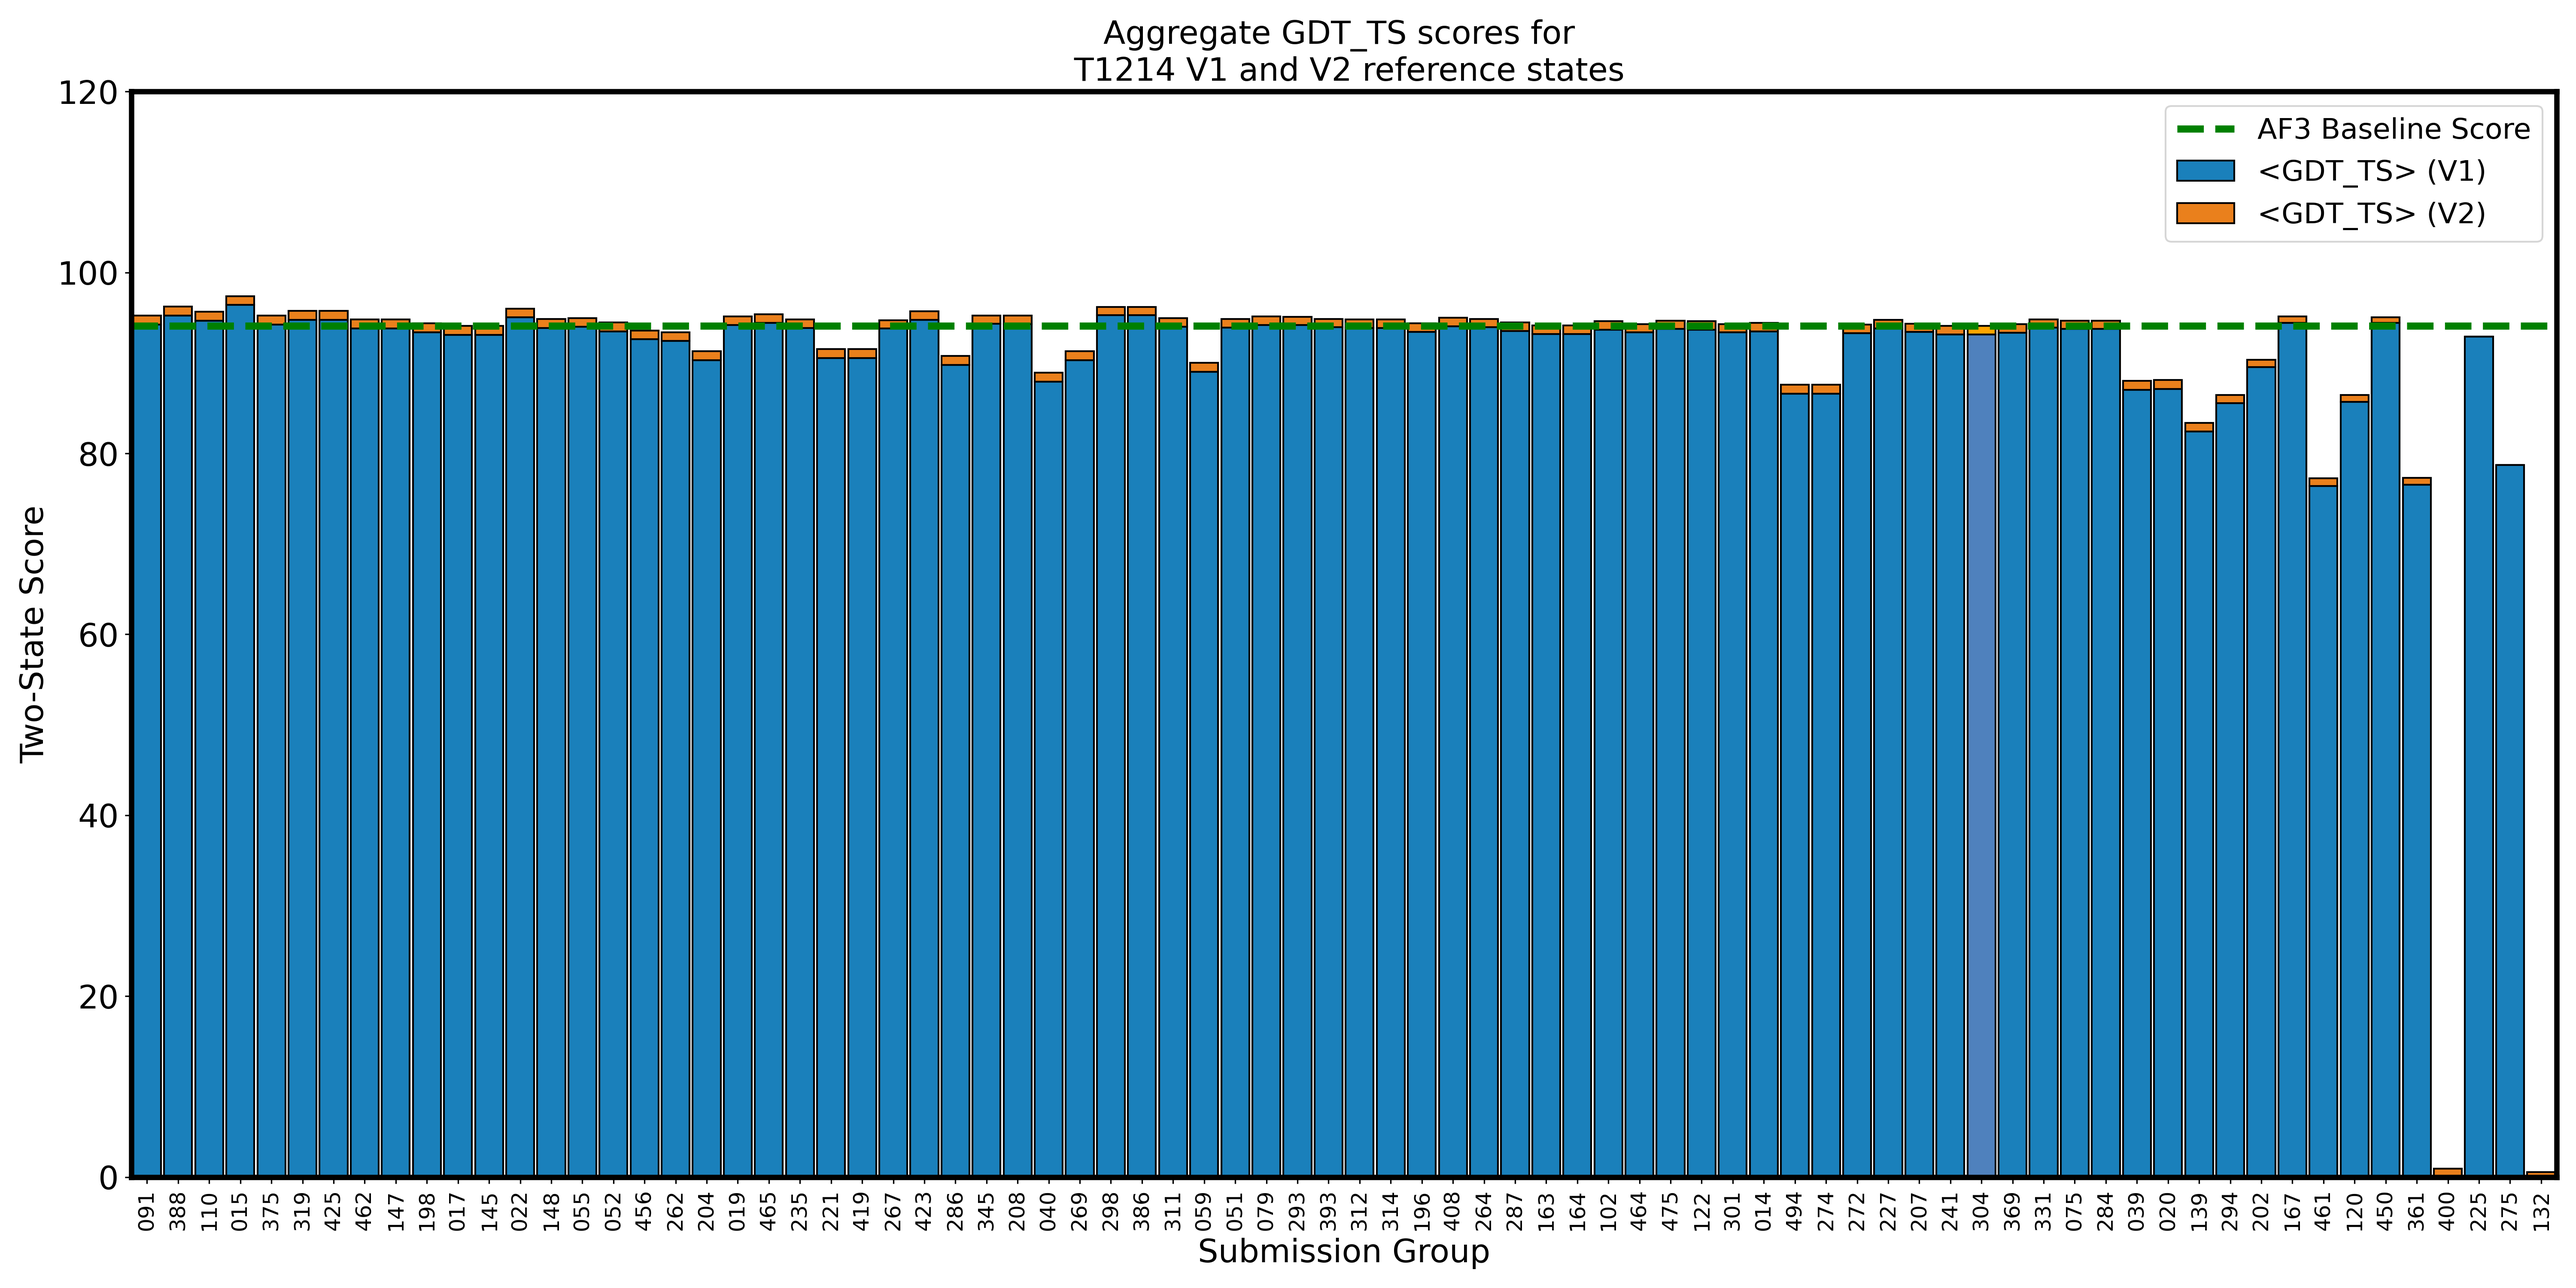
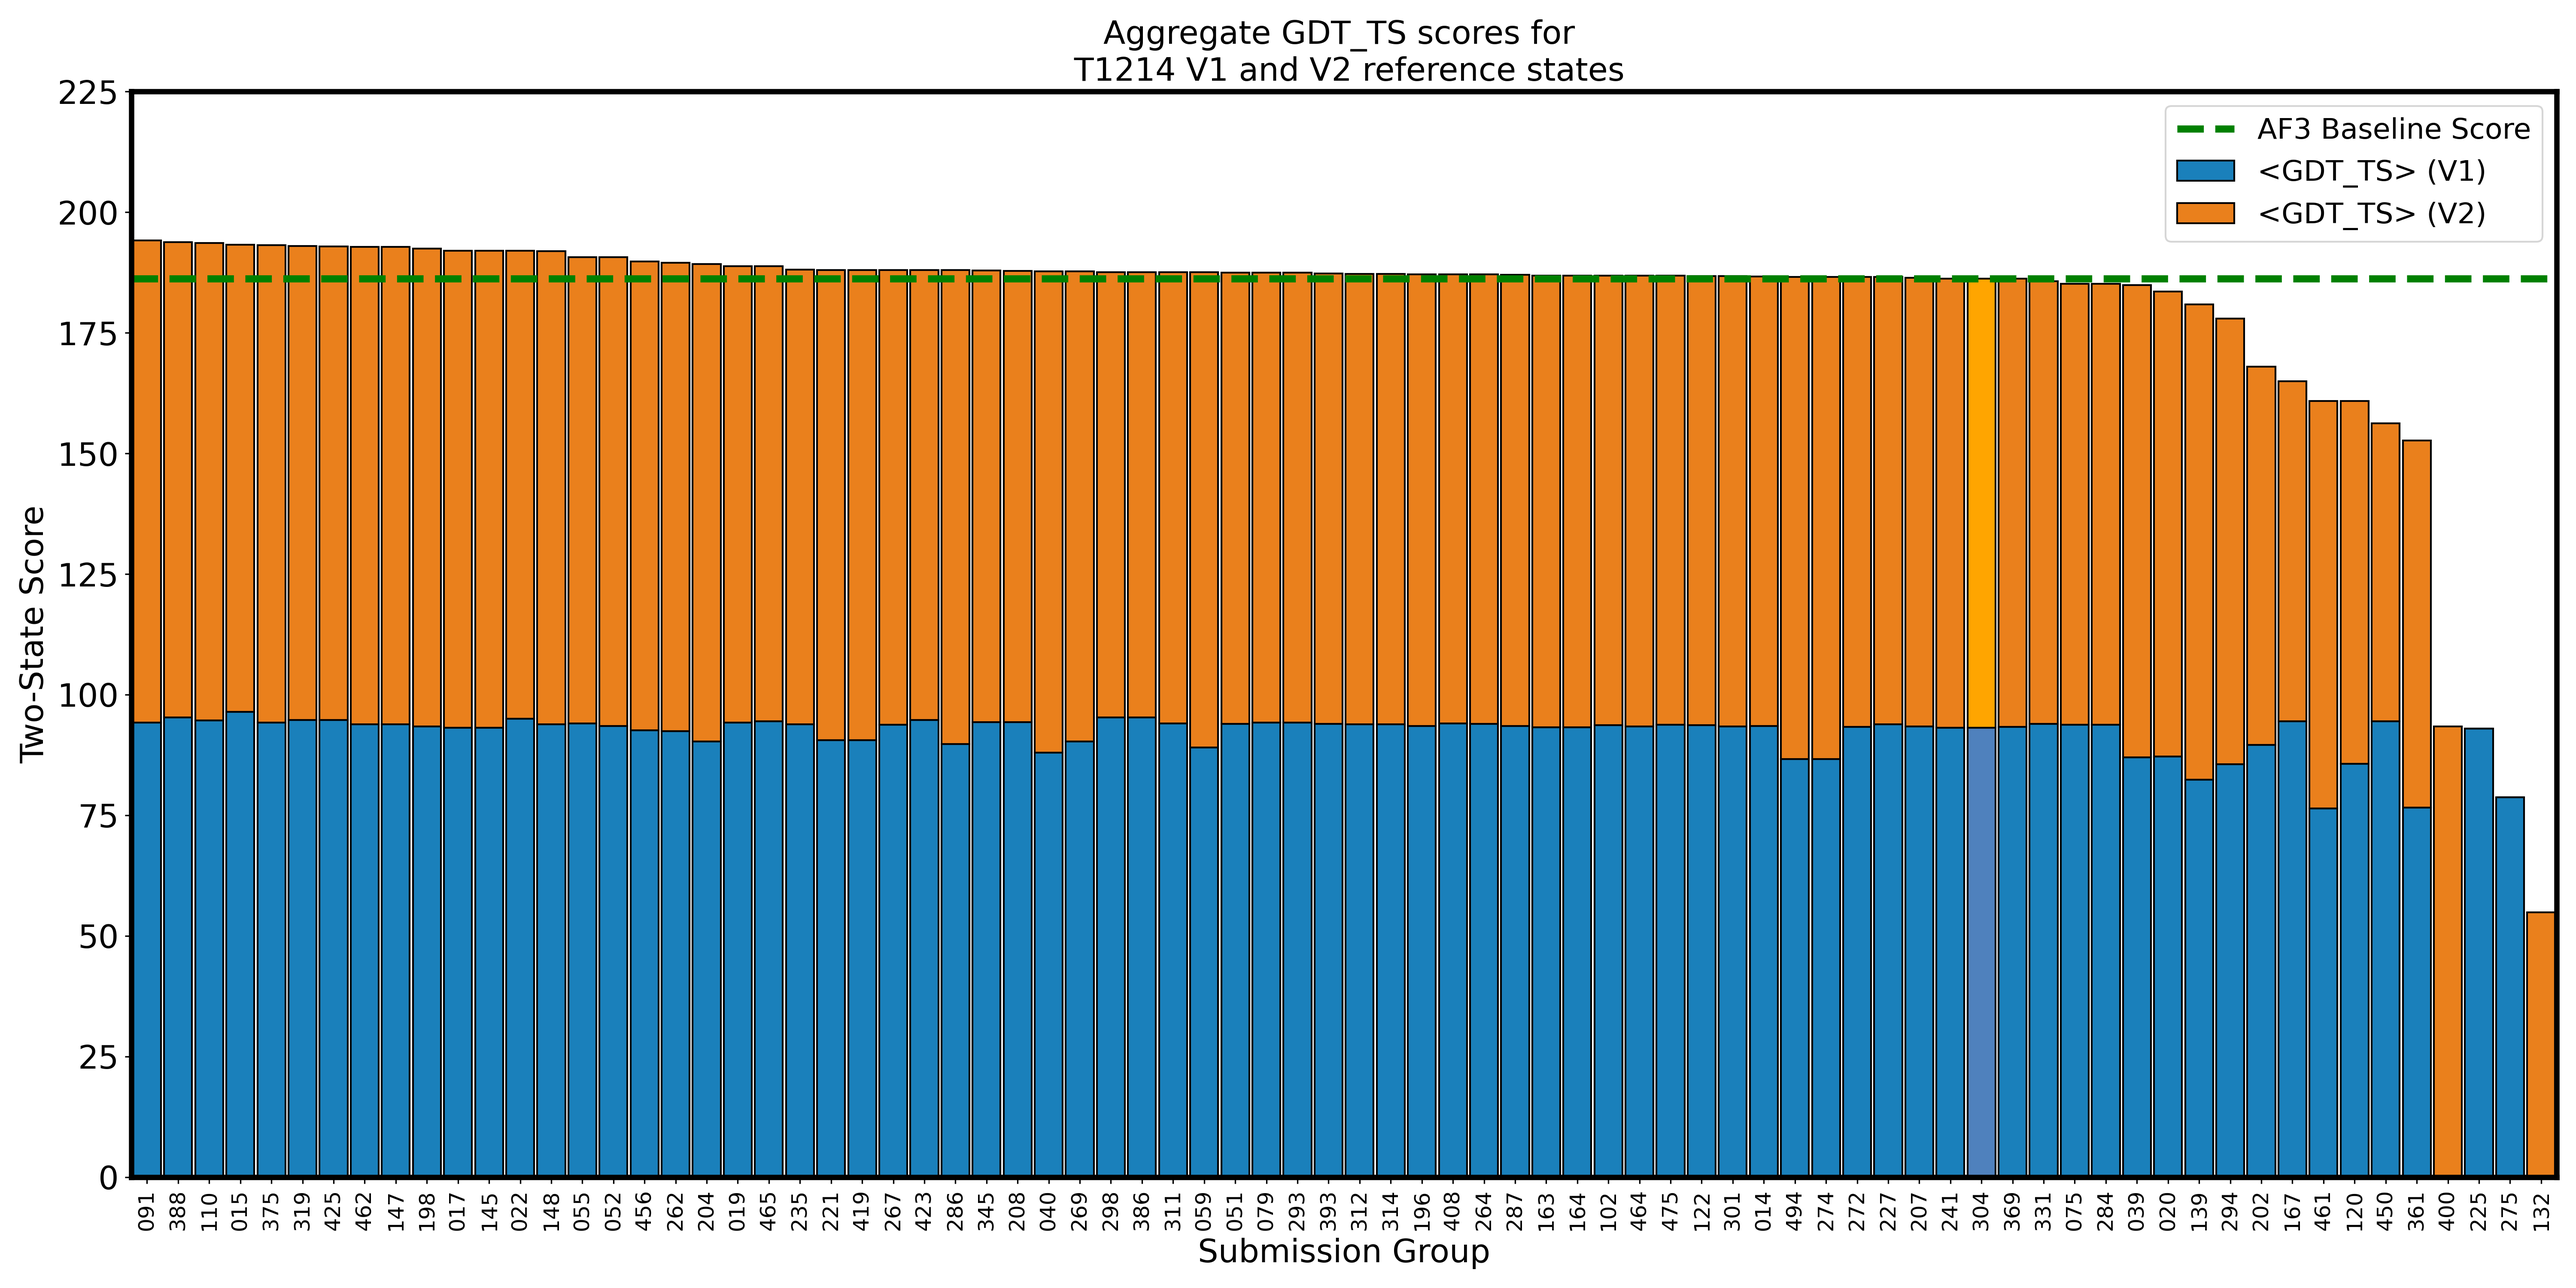
updated T1214 two-state plots for GDT_TS and TMScore

Changed region(s): [[0.0312, 0.155, 0.9973, 0.93], [0.0312, 0.713, 0.0623, 0.744], [0.0312, 0.62, 0.0623, 0.651]]

diff --git a/process_two_state_score.py b/process_two_state_score.py
@@ -559,9 +559,9 @@ def assessment(ID, score):
 
     # Convert GDT_TS scores to percentage
     if score == 'GDT_TS':
-        if max(combined_df['Best_v1_ref']) < 1:
+        if max(combined_df['Best_v1_ref']) <= 1:
             combined_df['Best_v1_ref'] = combined_df['Best_v1_ref'] * 100
-        if max(combined_df['Best_v2_ref']) < 1:
+        if max(combined_df['Best_v2_ref']) <= 1:
             combined_df['Best_v2_ref'] = combined_df['Best_v2_ref'] * 100
 
     # Save the combined metric to a CSV file
@@ -682,6 +682,21 @@ def assessment(ID, score):
             'rect_height': 10,
             'legend_position': 'upper left',
         })
+    elif ID == "T1214" and score == "TMscore":
+        print(f"Creating scatter plot for {ID} {score}.")
+        kwargs.update({
+            'inset': True,
+            'inset_position': [0.25, 0.05, 0.475, 0.475],
+            'inset_xlim': [.94, 1.00],
+            'inset_ylim': [.94, 1.00],
+            'inset_xticks': [.94, .96, .98, 1.00],
+            'inset_yticks': [.94, .96, .98, 1.00],
+            'highlight_inset_rect': True,
+            'rect_xy': (.94, .94),
+            'rect_width': .06,
+            'rect_height': .06,
+            'legend_position': 'upper left',
+        })
     elif ID == "M1228" and score == "TMscore":
         kwargs.update({
             'main_xlim': (0.6, 0.8),
@@ -731,6 +746,7 @@ def assessment(ID, score):
             'yticks': [round(y, 2) for y in list(frange(0.15, 0.40+0.001, 0.05))],
         })
 
+
     # Call create_scatter once with all kwargs
     result = create_scatter(**kwargs)
 
@@ -752,6 +768,10 @@ TARGET_SCORE_DICT = {"M1228": ["BestDockQ", "GDT_TS", "GlobDockQ", "GlobalLDDT",
                      "T1239": ["GDT_TS", "GlobalLDDT", "TMscore"], 
                      "T1249": ["AvgDockQ", "GlobalLDDT", "GDT_TS", "TMscore"]}
 
+
+assessment("T1214", "TMscore")
+assessment("T1214", "GDT_TS")
+exit()
 for ID, scores in TARGET_SCORE_DICT.items():
     for score in scores:
         try:
